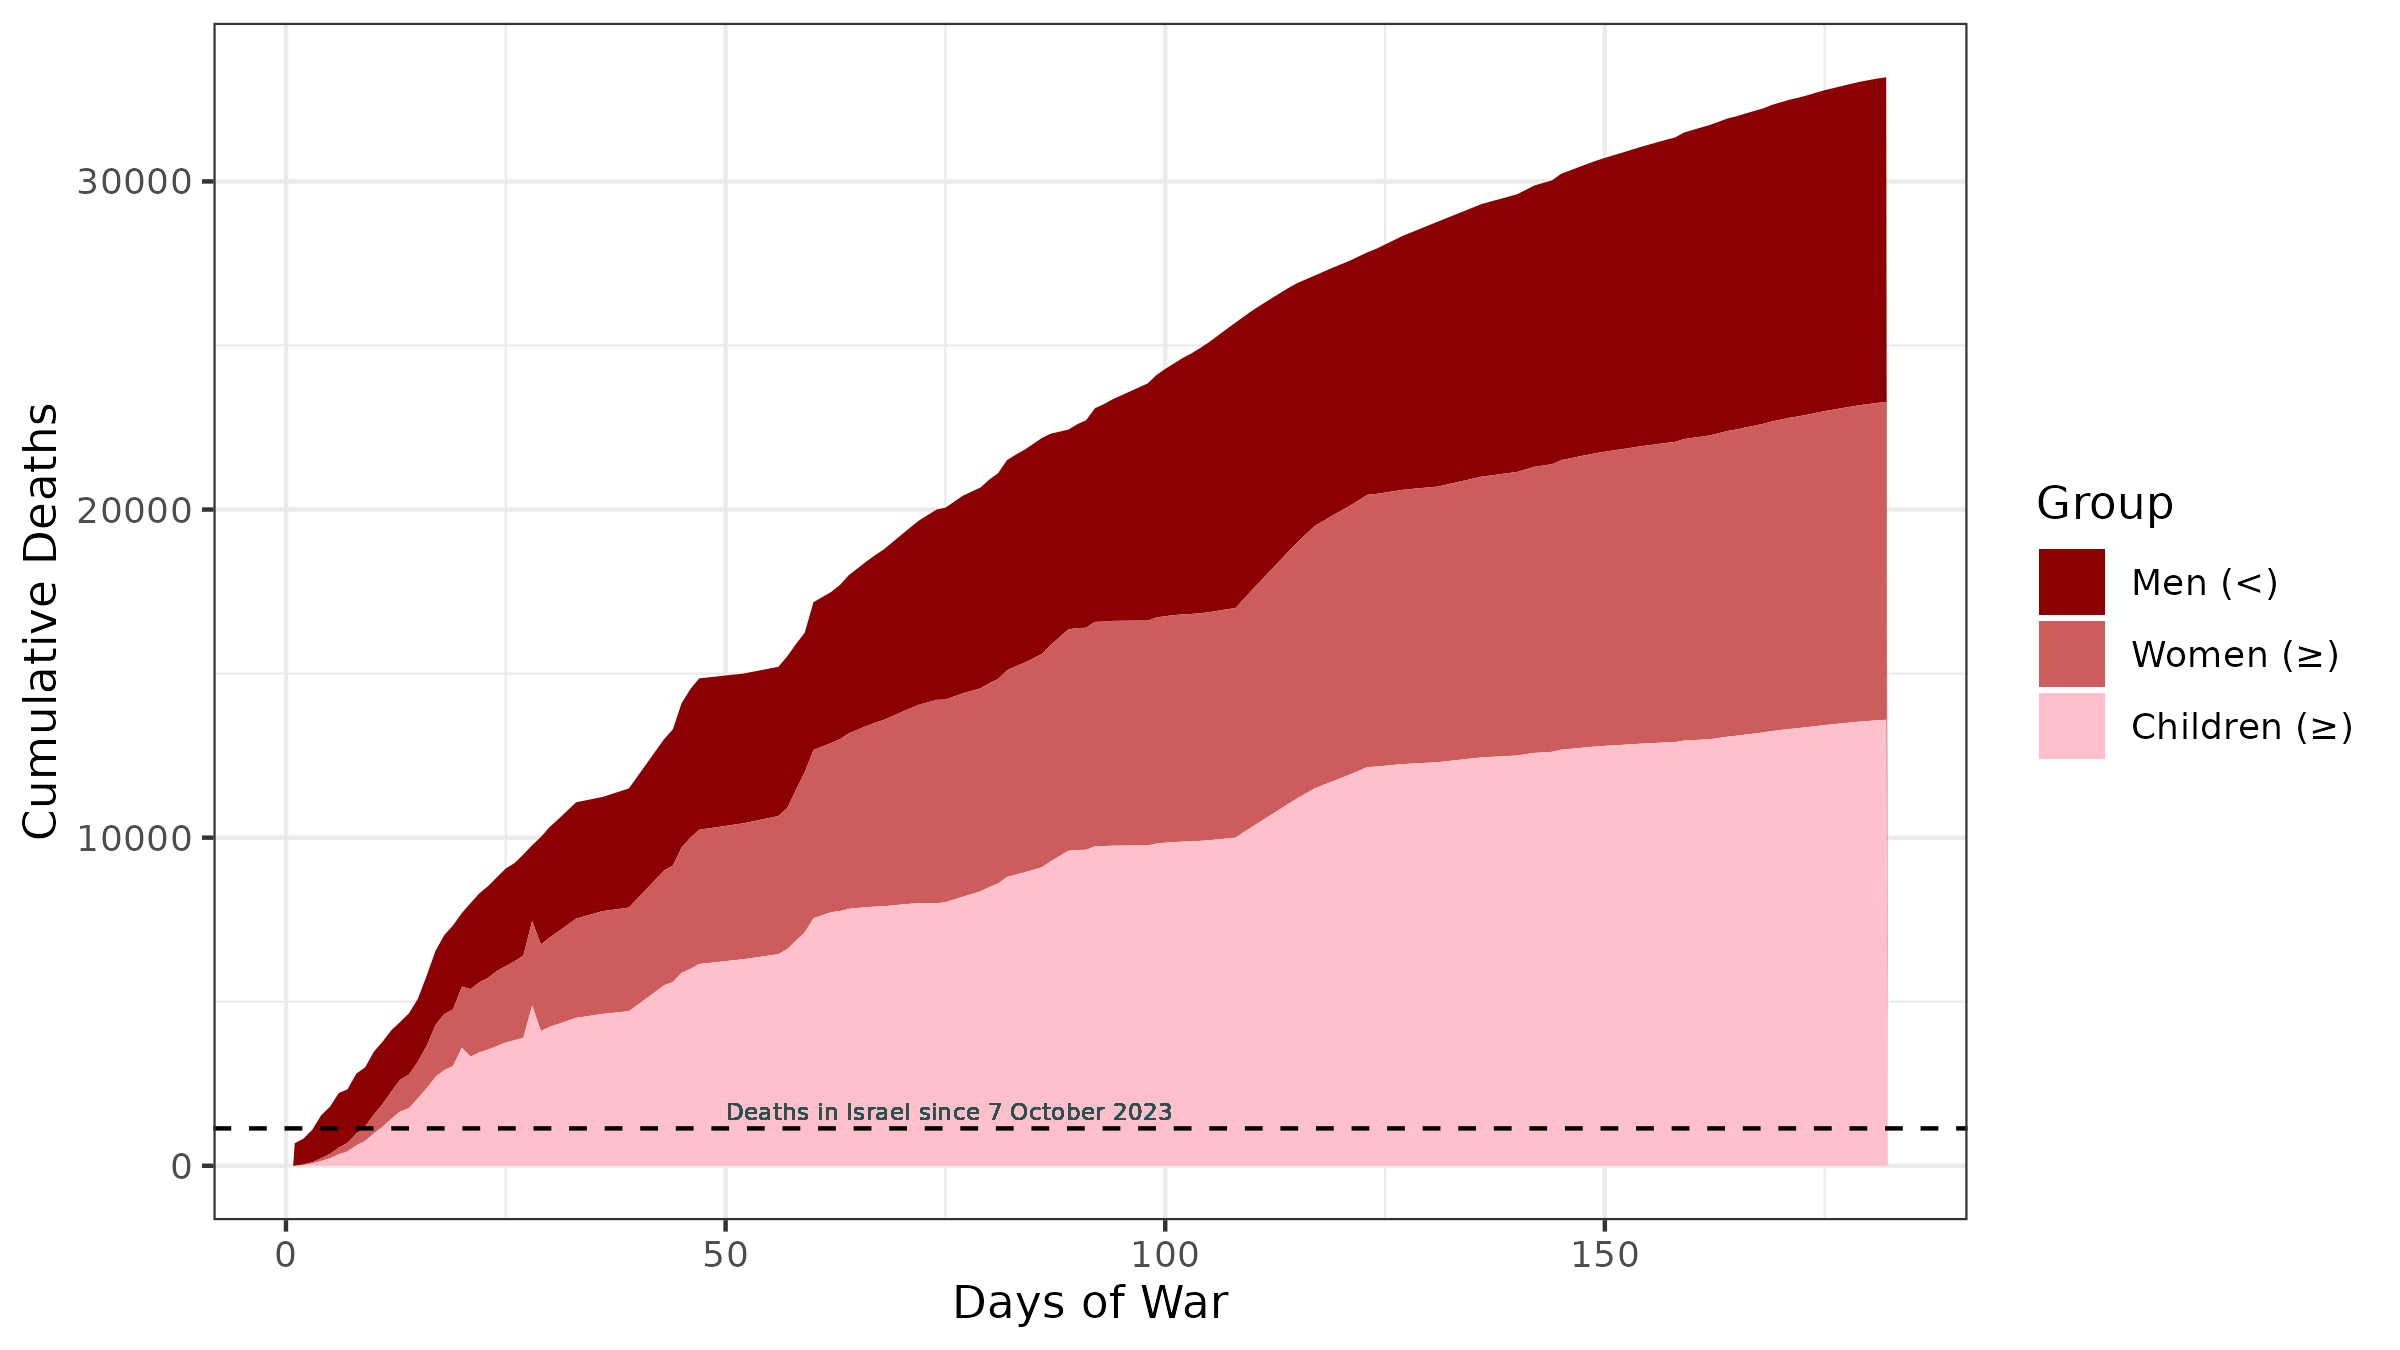
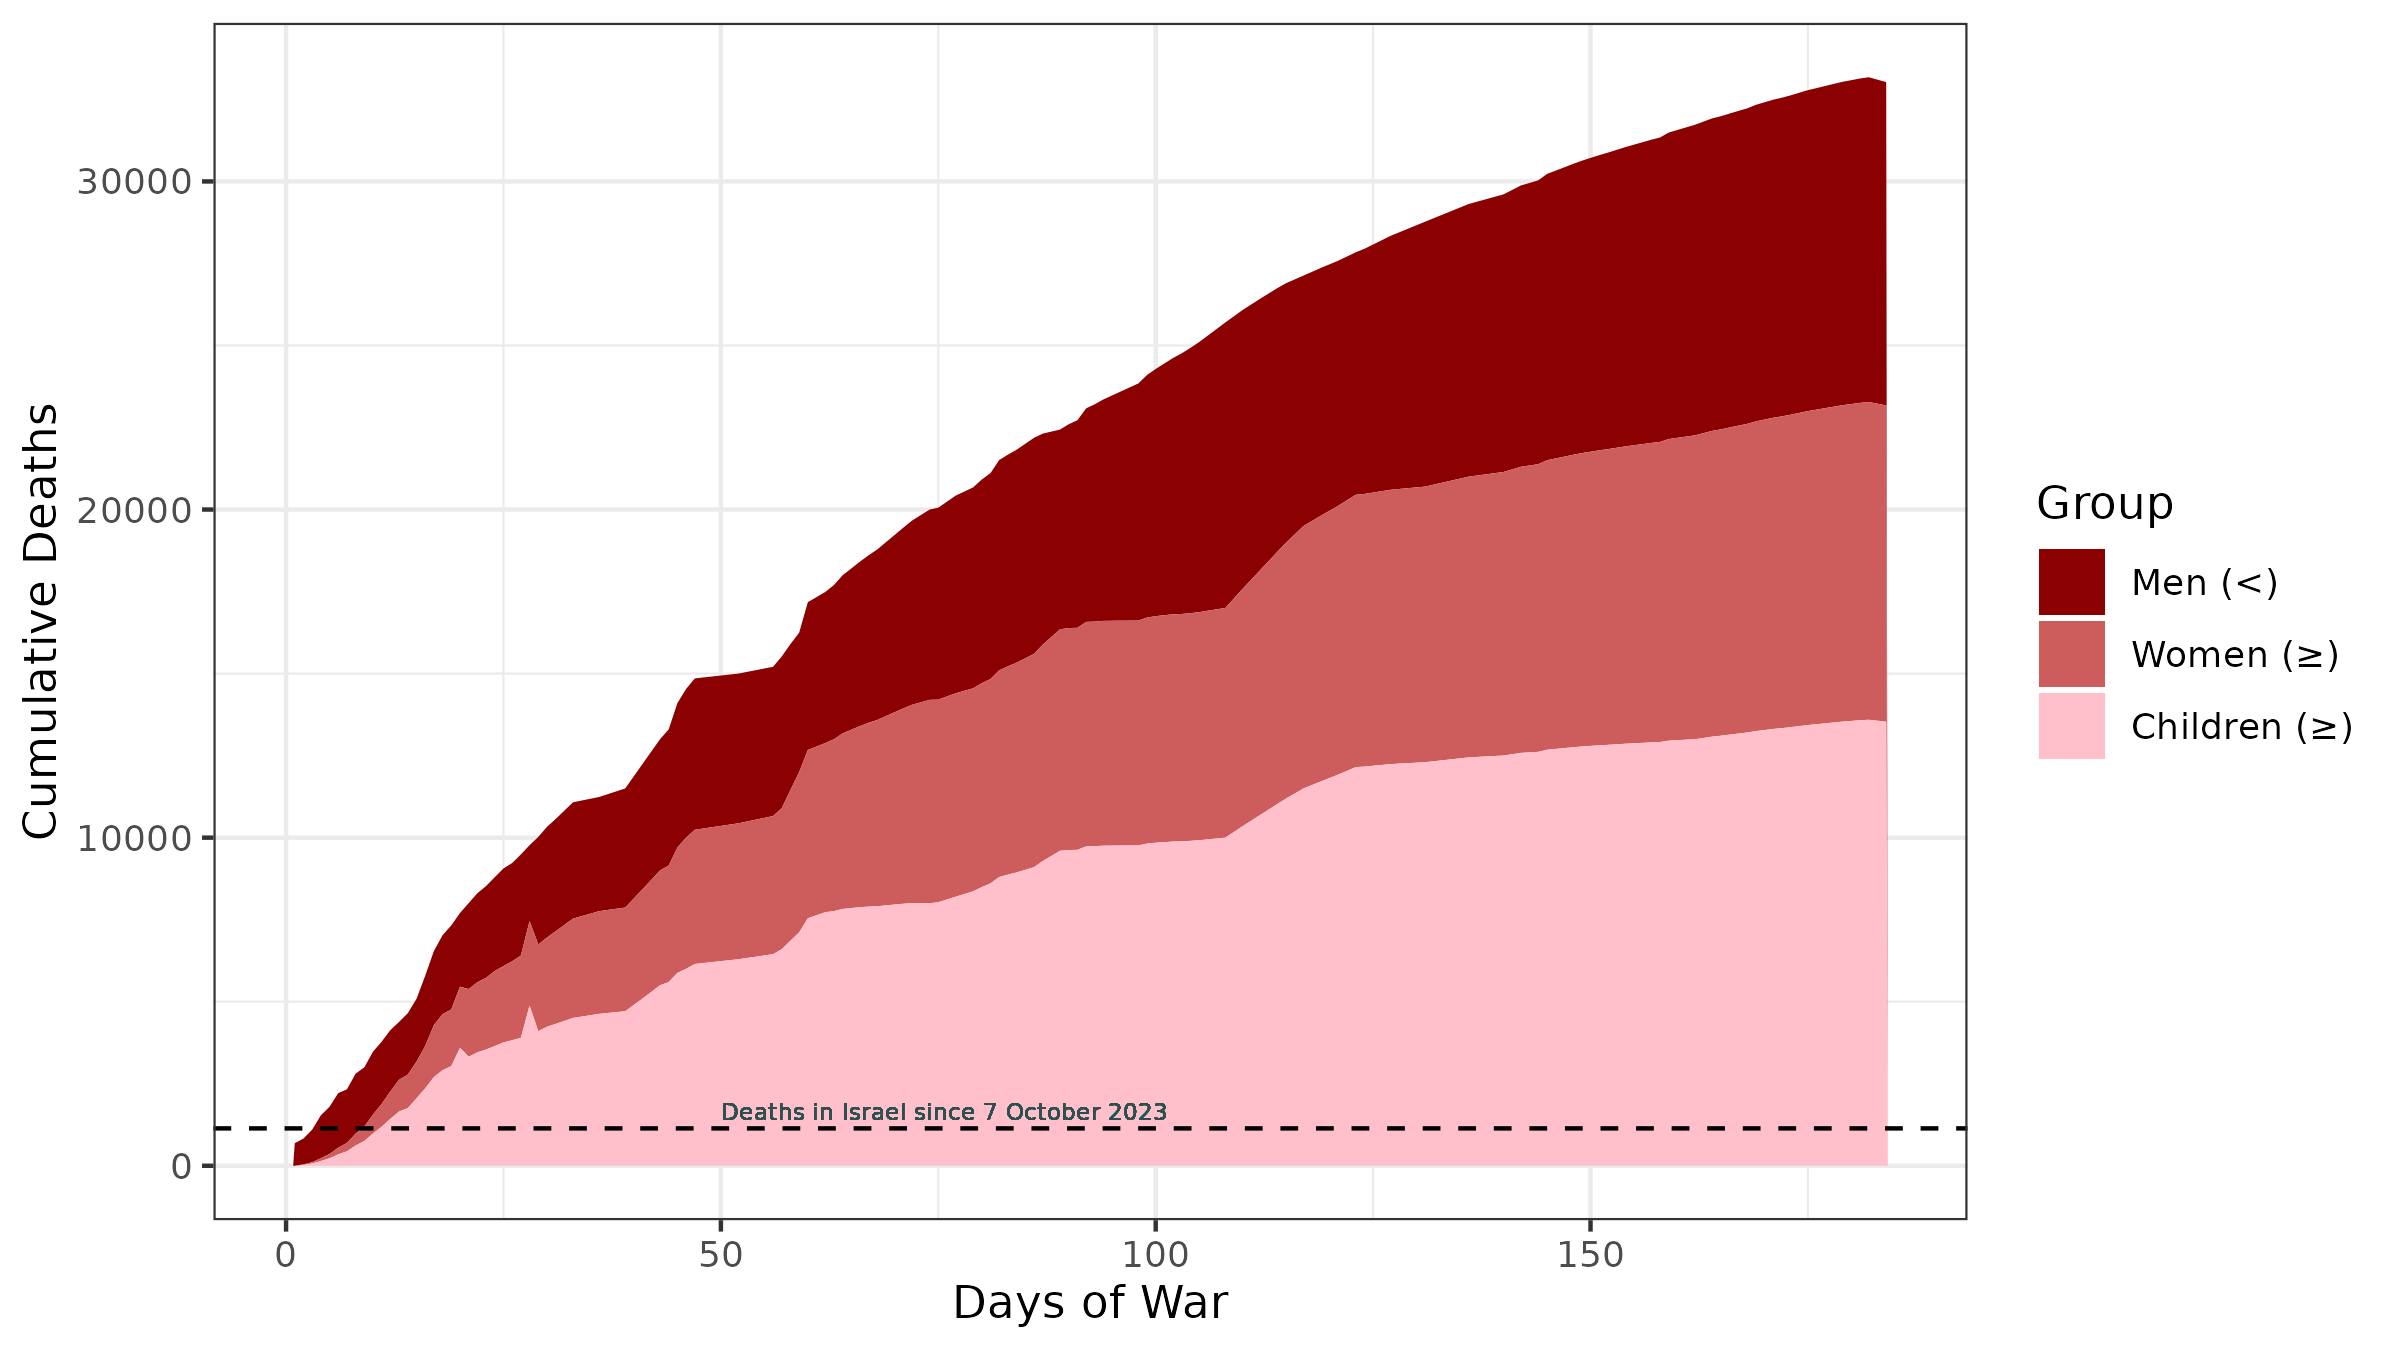
Updated with data from 9 April 2024

diff --git a/README.md b/README.md
@@ -1,5 +1,5 @@
 Tracking mortality in Palestine following Israel's assault against Gaza (2023-2024). 
-*Last updated 7 April 2024*
+*Last updated 9 April 2024*
 
 # Gaza Conflict Tracker
 
